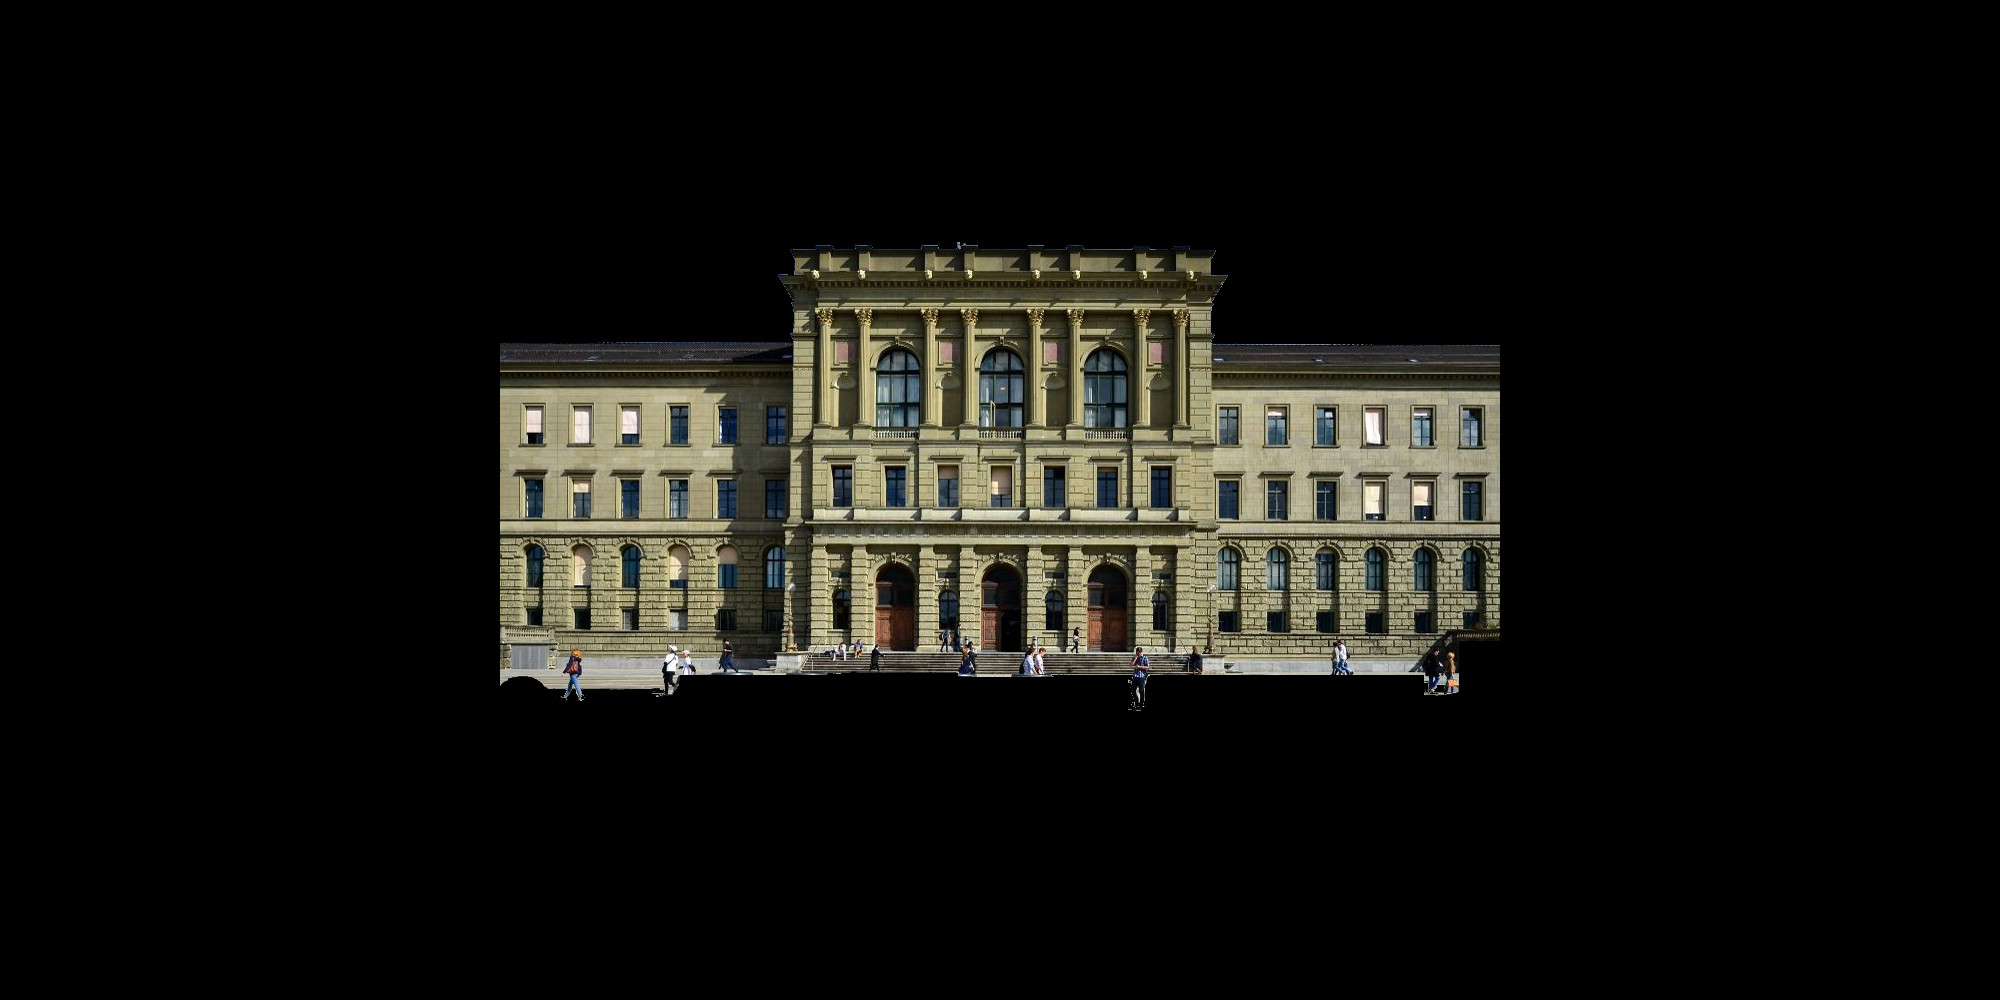
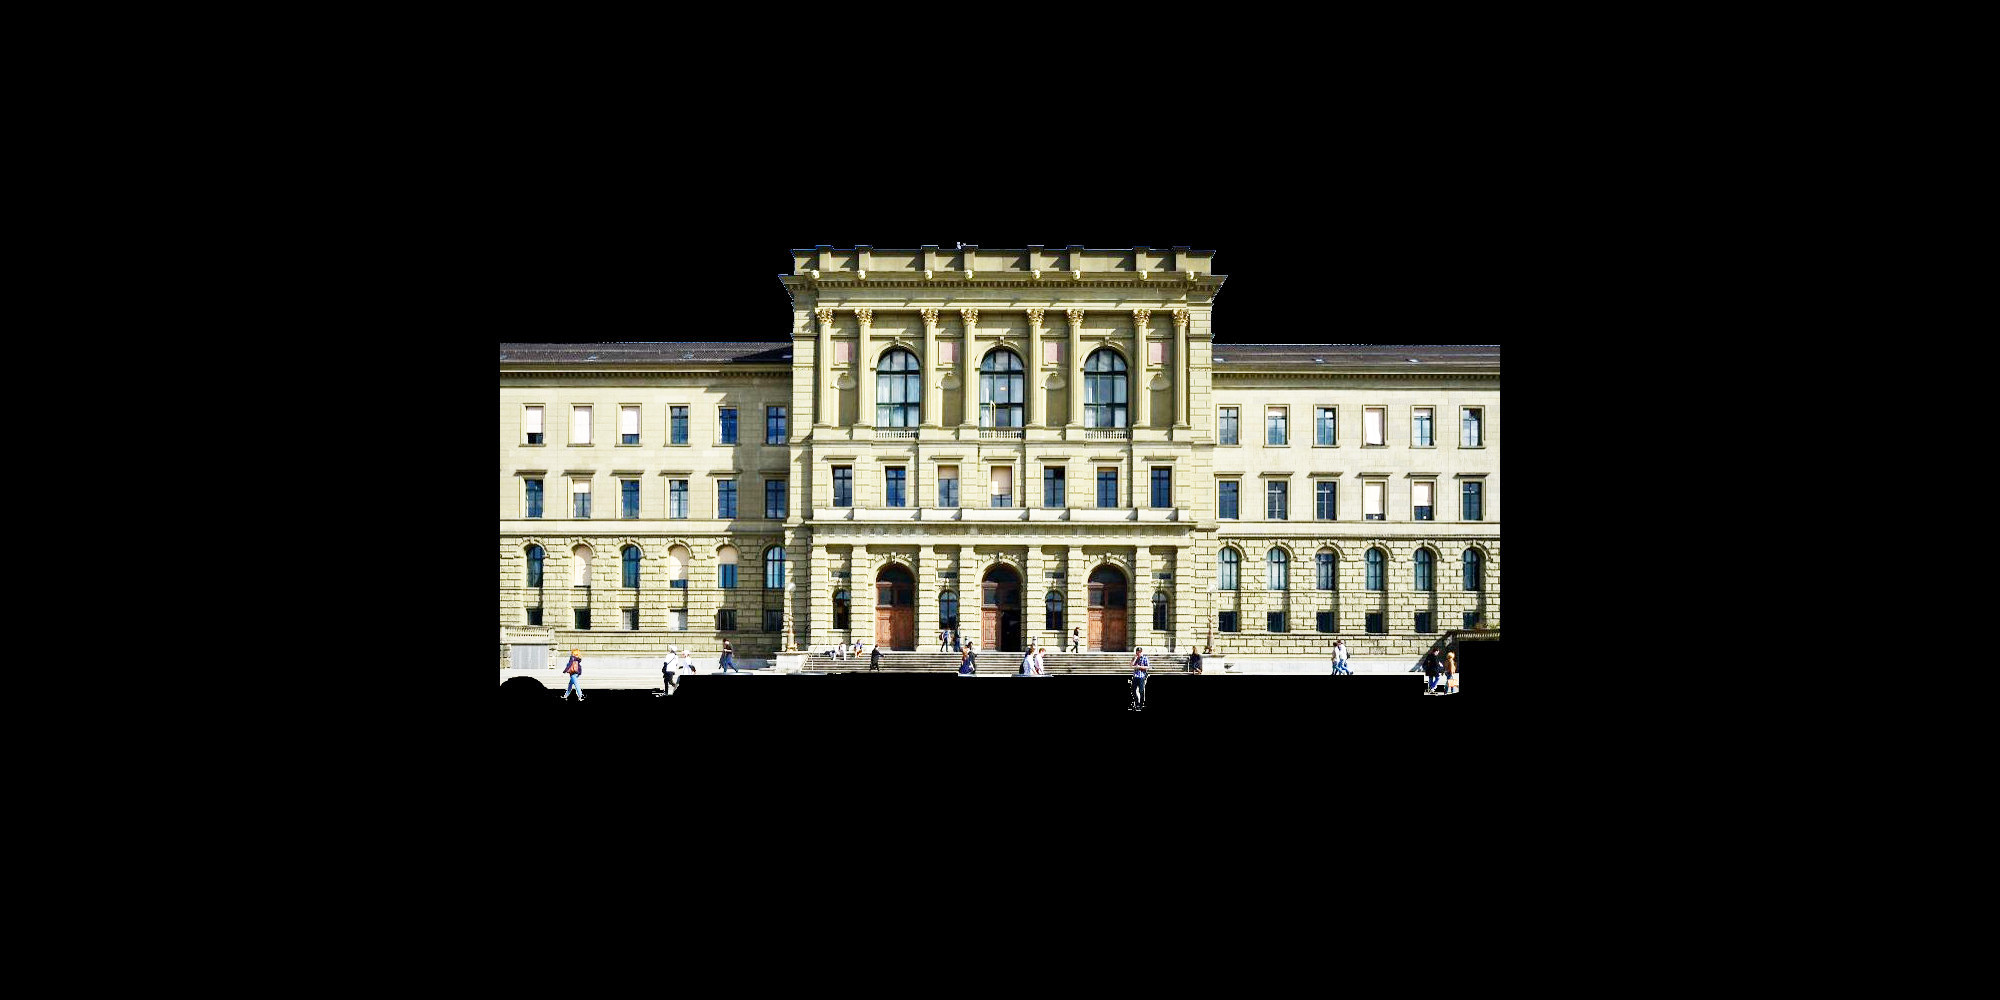
disable buttons, improve ETH image

Changed region(s): [[0.248, 0.248, 0.775, 0.713]]

diff --git a/MendezTransform/SpheresView.m b/MendezTransform/SpheresView.m
@@ -255,28 +255,32 @@
     SCNMaterial *material = [leftSphere firstMaterial];
     if (comparing) {
         NSLog(@"comparing");
-        rightArrow.hidden = YES;
         [SCNTransaction begin];
         [SCNTransaction setAnimationDuration: ANIMATION_TIME];
         leftSphere.radius = SPHERE_RADIUS * 1.004;
         leftNode.position = SCNVector3Make(0, 0, 0);
         rightNode.position = SCNVector3Make(0, 0, 0);
+        rightArrow.position = SCNVector3Make(0, 0, 0);
         leftArrow.position = SCNVector3Make(0, 0, 0);
         prerotateArrow.position = SCNVector3Make(0, 0, 0);
-        material.transparent.contents = transparentImage;
+        [SCNTransaction setCompletionBlock:^{
+            material.transparent.contents = transparentImage;
+            rightArrow.hidden = YES;
+        }];
         [SCNTransaction commit];
     } else {
         NSLog(@"not comparing");
+        rightArrow.hidden = NO;
+        material.transparent.contents = nil;
         [SCNTransaction begin];
         [SCNTransaction setAnimationDuration: ANIMATION_TIME];
         leftSphere.radius = SPHERE_RADIUS;
         leftNode.position = SCNVector3Make(-SPHERE_SEPARATION, 0, 0);
         rightNode.position = SCNVector3Make(SPHERE_SEPARATION, 0, 0);
         leftArrow.position = SCNVector3Make(-SPHERE_SEPARATION, 0, 0);
+        rightArrow.position = SCNVector3Make(SPHERE_SEPARATION, 0, 0);
         prerotateArrow.position = SCNVector3Make(-SPHERE_SEPARATION, 0, 0);
-        material.transparent.contents = nil;
         [SCNTransaction setCompletionBlock:^{
-            rightArrow.hidden = NO;
         }];
         [SCNTransaction commit];
     }

diff --git a/MendezTransform/MendezView.m b/MendezTransform/MendezView.m
@@ -50,6 +50,7 @@
     UIButton *button = [[UIButton alloc] init];
     button.backgroundColor = [UIColor whiteColor];
     [button setTitleColor: [UIColor blackColor] forState: UIControlStateNormal];
+    [button setTitleColor: [UIColor grayColor] forState: UIControlStateDisabled];
     [button setTitle: label forState: UIControlStateNormal];
     [self addSubview: button];
     return button;
@@ -120,8 +121,14 @@
     spheresView.comparing = !spheresView.comparing;
     if (spheresView.comparing) {
         [comparingButton setTitle: @"Find Axis" forState: UIControlStateNormal];
+        randomButton.enabled = NO;
+        fineButton.enabled = NO;
+        tailButton.enabled = NO;
     } else {
         [comparingButton setTitle: @"Rotate" forState: UIControlStateNormal];
+        randomButton.enabled = YES;
+        fineButton.enabled = YES;
+        tailButton.enabled = YES;
     }
 }
 

diff --git a/MendezTransform/ViewController.m b/MendezTransform/ViewController.m
@@ -146,7 +146,7 @@
             }
             CIFilter *filter = [CIFilter filterWithName:@"CIGaussianBlur"];
             [filter setValue:inputImage forKey:kCIInputImageKey];
-            [filter setValue:[NSNumber numberWithDouble:6.0] forKey:@"inputRadius"];
+            [filter setValue:[NSNumber numberWithDouble:3.0] forKey:@"inputRadius"];
             //CIImage *result = [filter valueForKey:kCIOutputImageKey];
             CIImage *outputImage = [filter outputImage];
             CGImageRef  outputCGImage = [context createCGImage:outputImage fromRect:[outputImage extent]];
